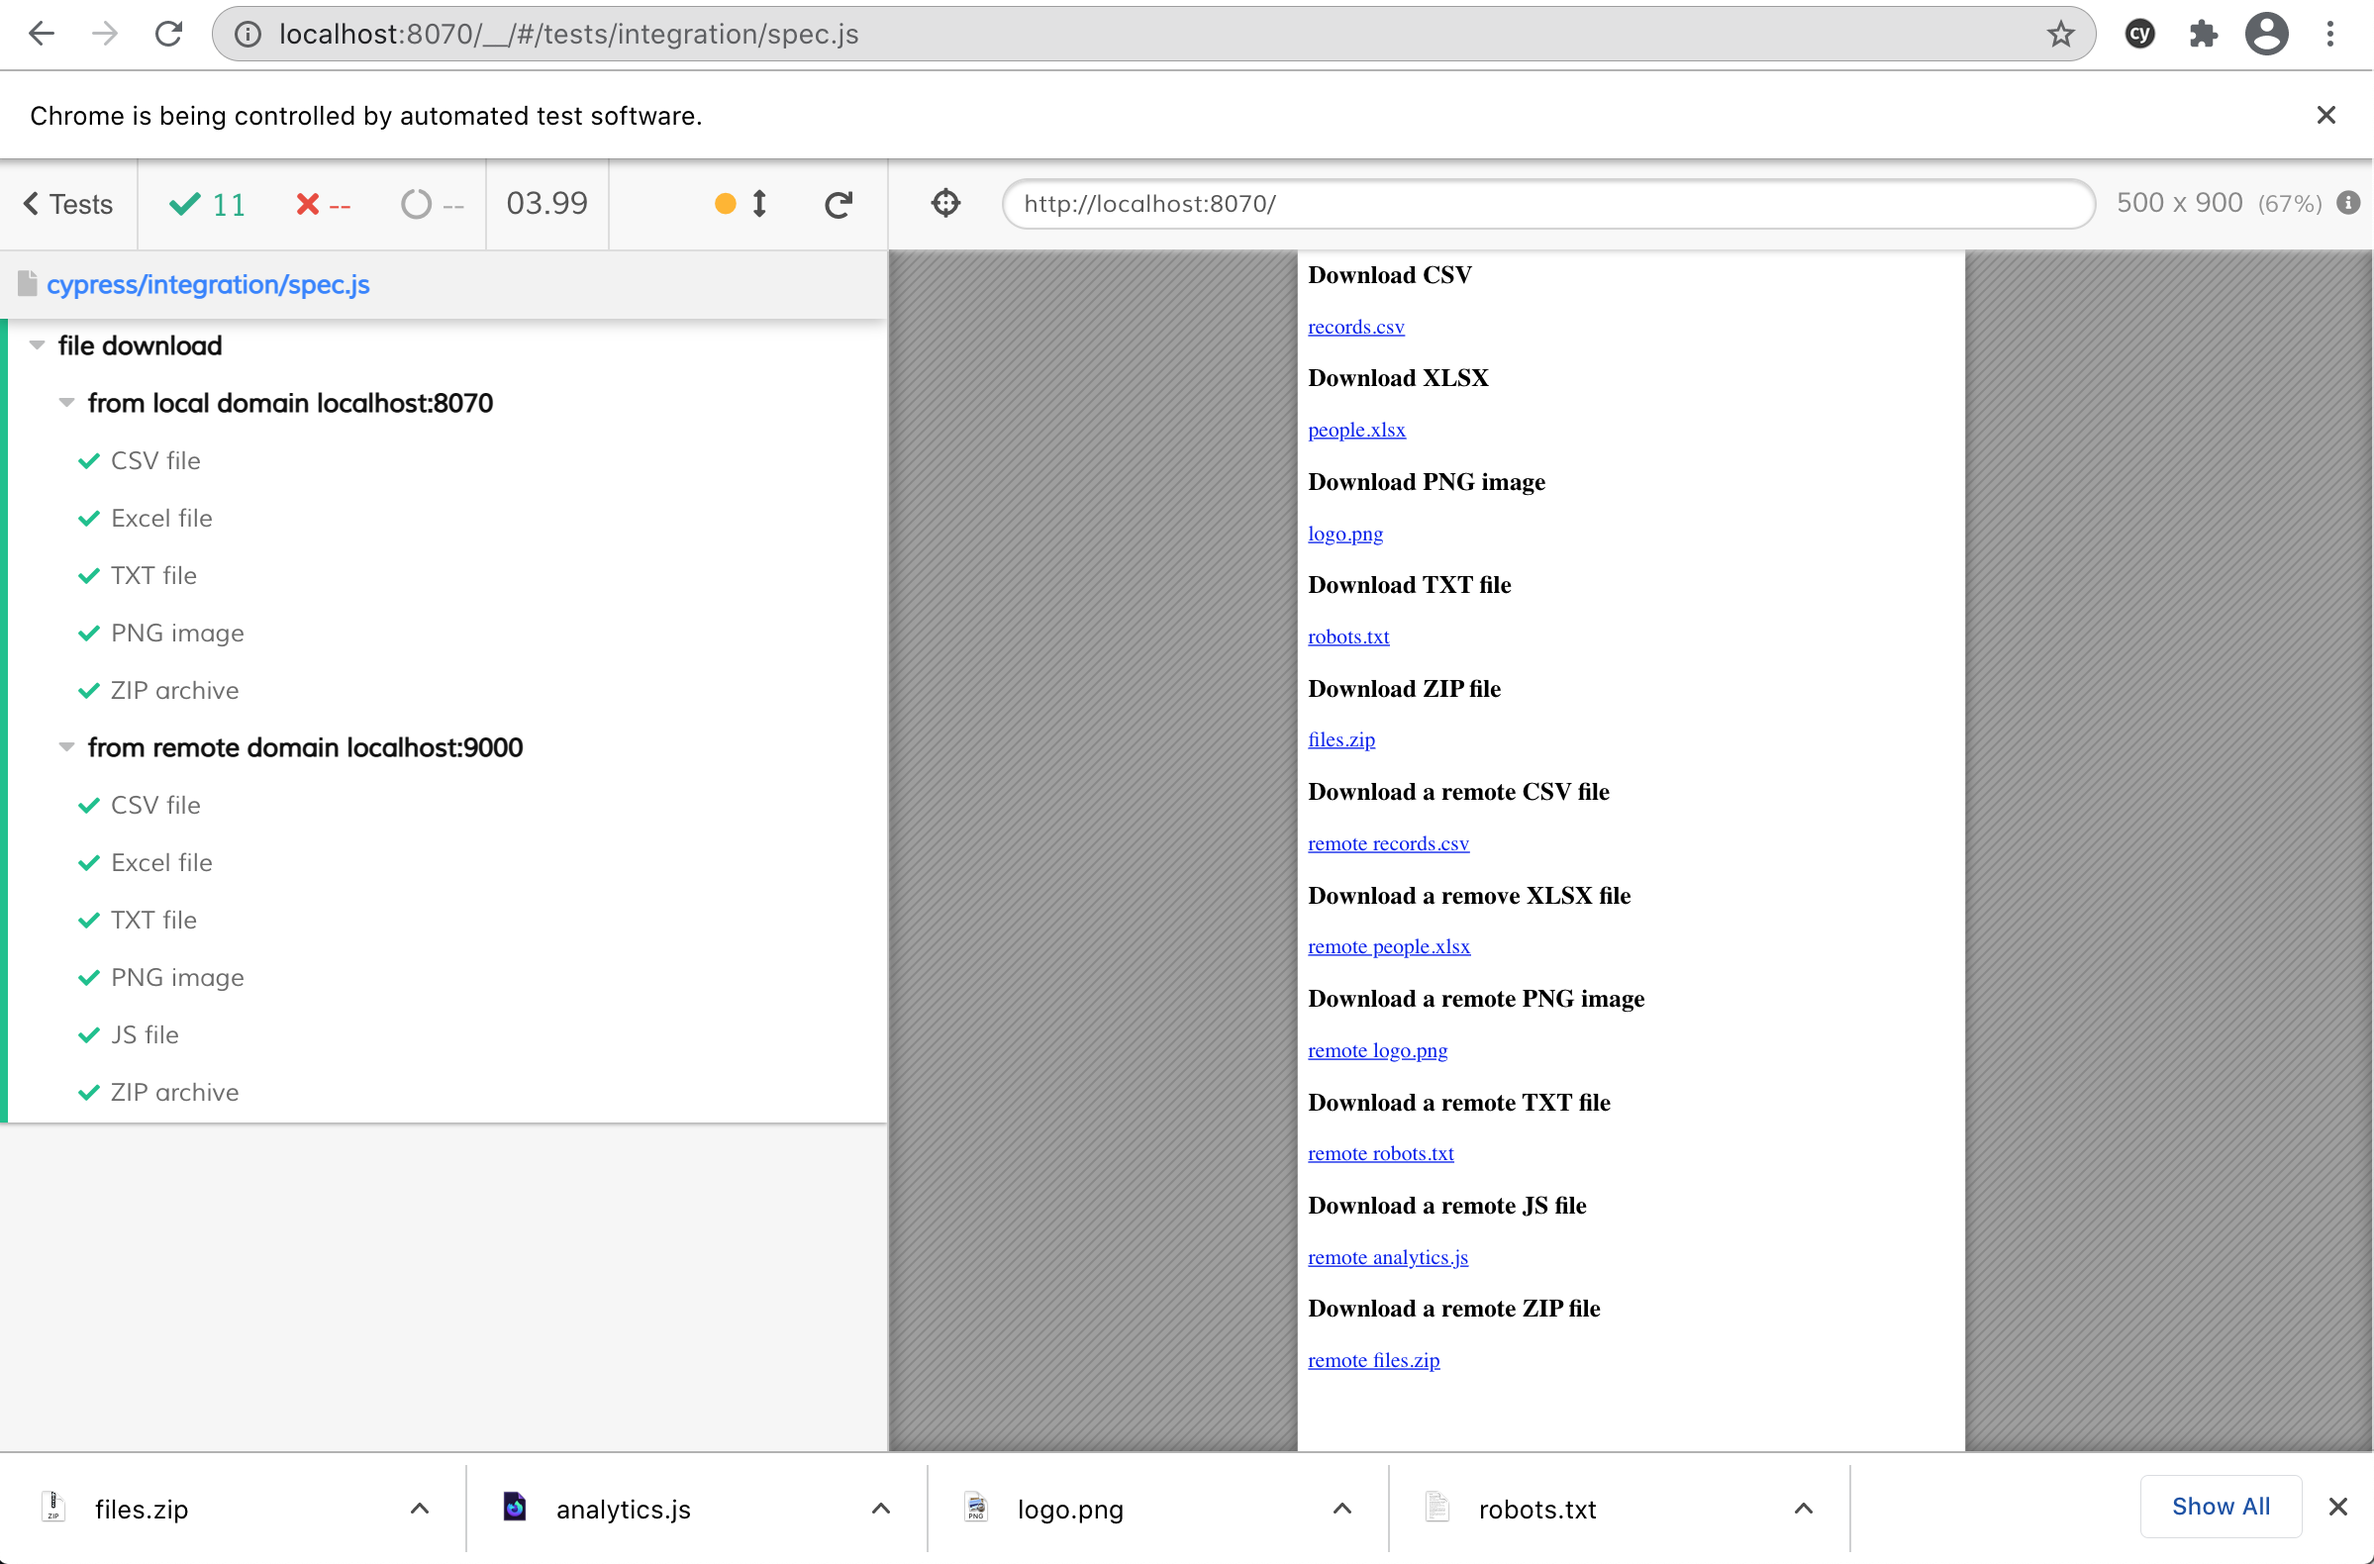
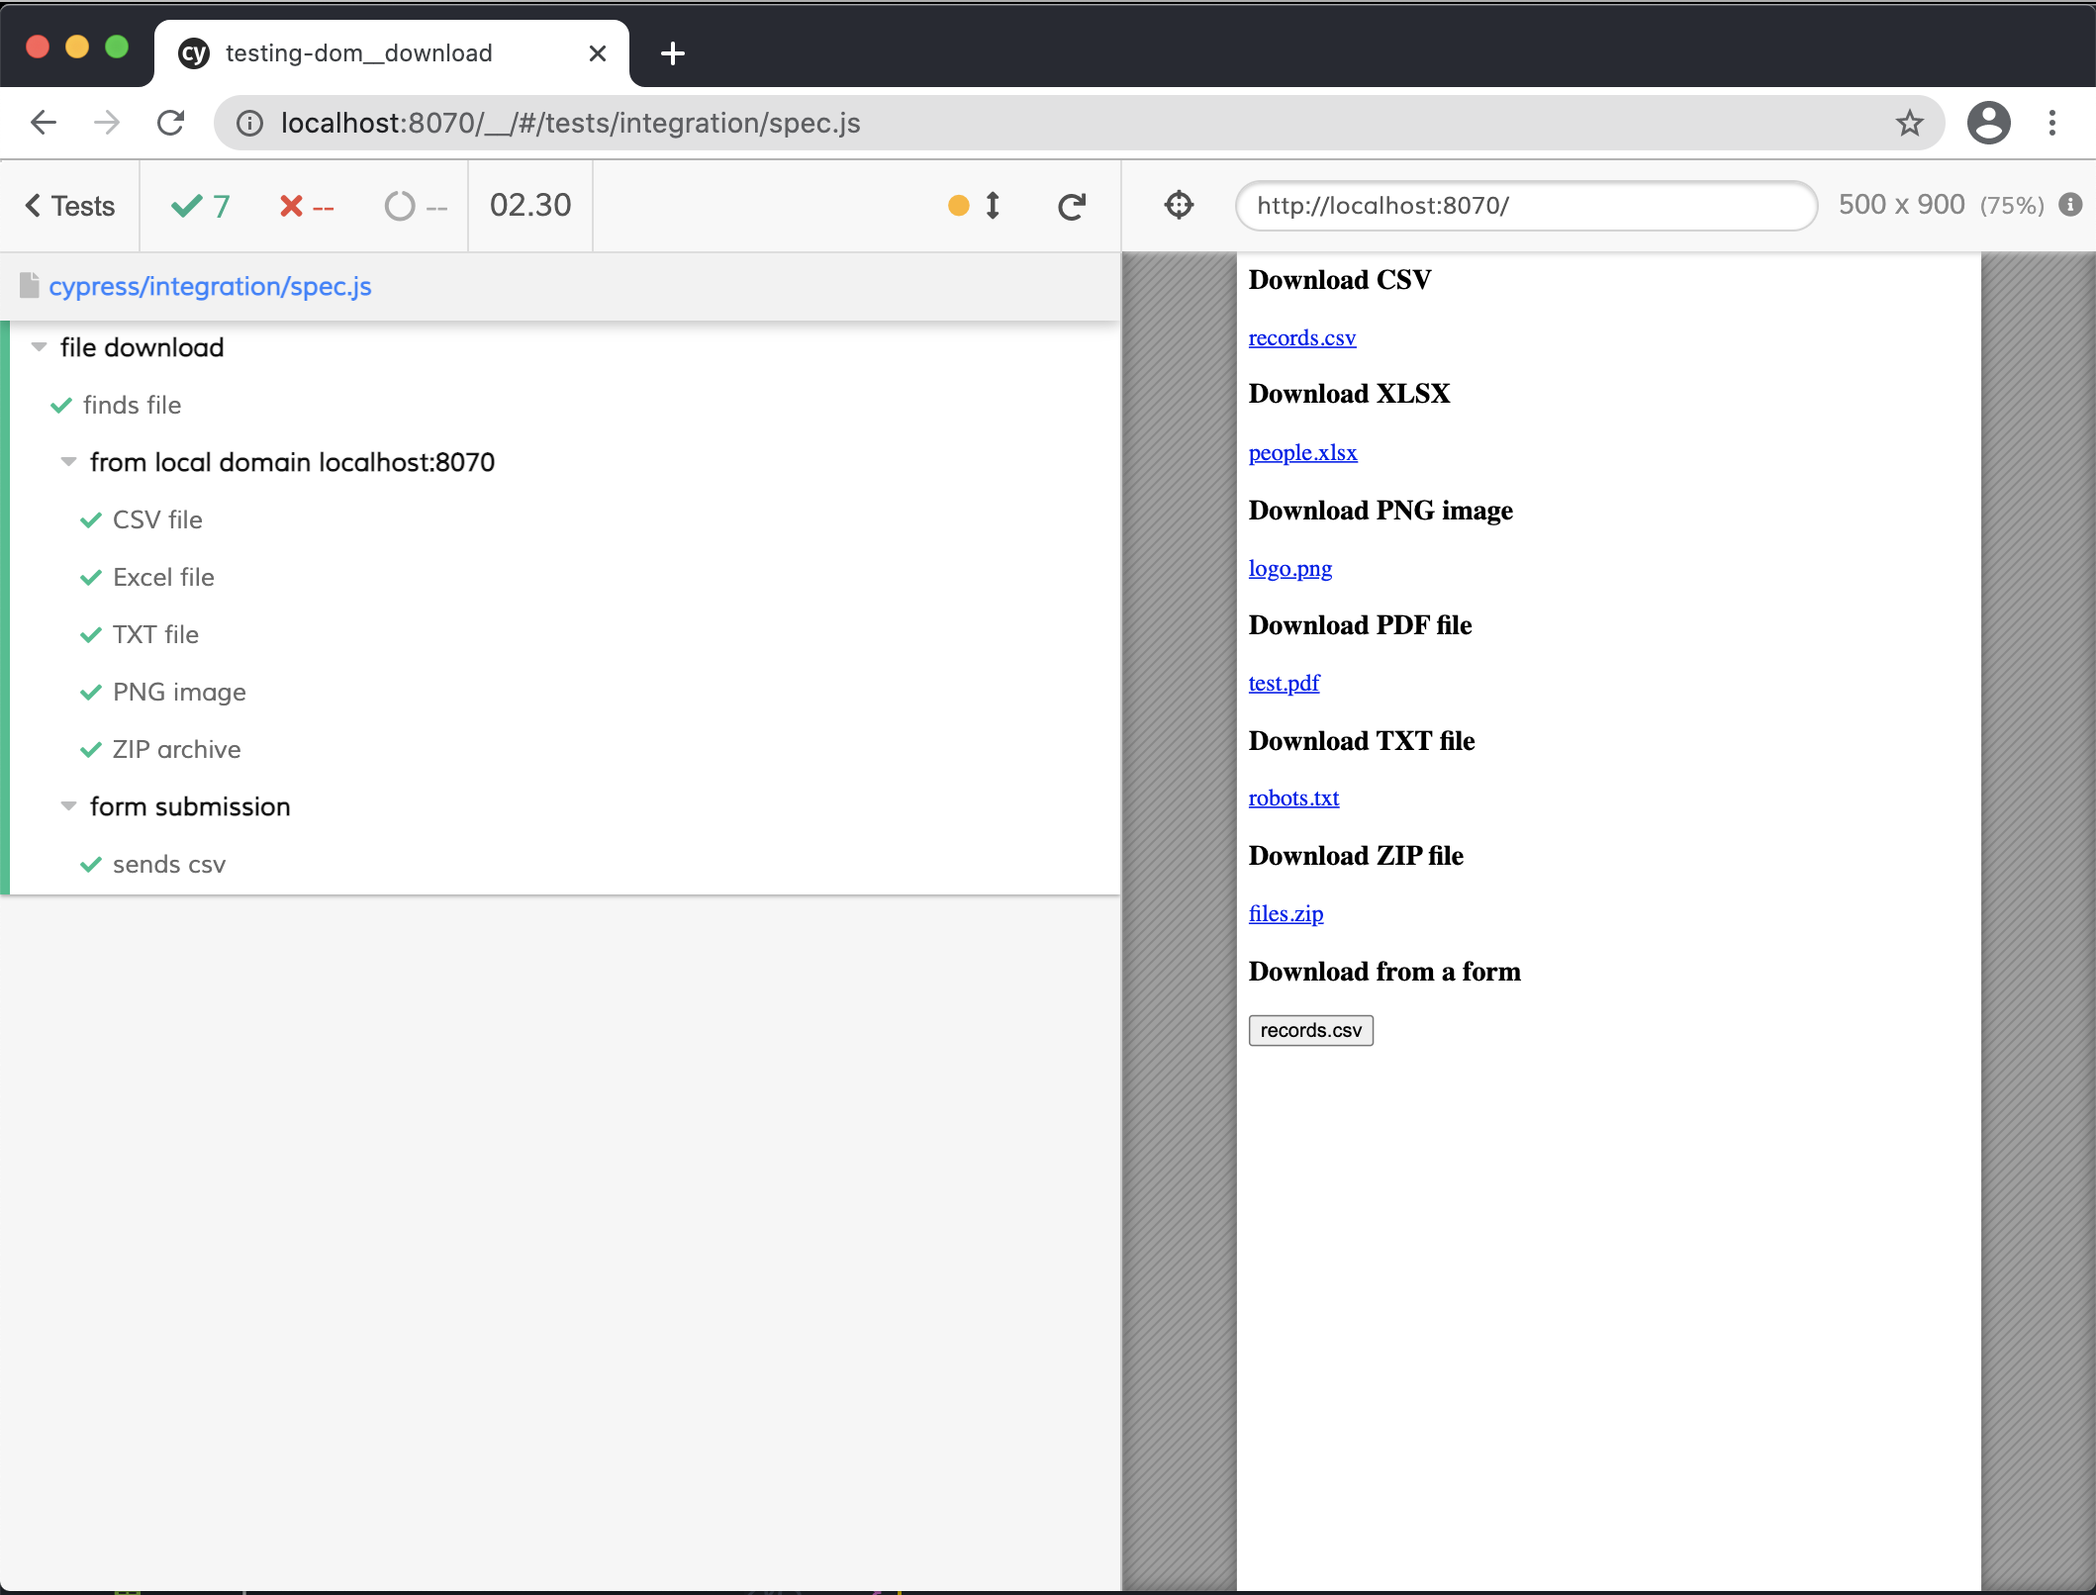
Remove remote downloads, fix falsely passing 'find file' test

diff --git a/examples/testing-dom__download/cypress/integration/spec.js b/examples/testing-dom__download/cypress/integration/spec.js
@@ -154,82 +154,6 @@ describe('file download', () => {
     })
   })
 
-  // The next step tries to download an image file located in
-  // the second domain. It runs in Chromium browsers with
-  // "chromeWebSecurity": false, but we need to skip it in Firefox
-  context('from remote domain localhost:9000', { browser: '!firefox' }, () => {
-    it('CSV file', () => {
-      cy.visit('/')
-      cy.contains('h3', 'Download CSV')
-      cy.get('[data-cy=download-remote-csv]').click()
-
-      cy.log('**read downloaded file**')
-
-      // file path is relative to the working folder
-      const filename = path.join(downloadsFolder, 'records.csv')
-
-      // browser might take a while to download the file,
-      // so use "cy.readFile" to retry until the file exists
-      // and has length - and we assume that it has finished downloading then
-      cy.readFile(filename, { timeout: 15000 })
-      .should('have.length.gt', 50)
-      // parse CSV text into objects
-      .then(neatCSV)
-      .then(validateCsvList)
-    })
-
-    it('Excel file', () => {
-      cy.visit('/')
-      cy.get('[data-cy=download-remote-xlsx]').click()
-
-      cy.log('**confirm downloaded file**')
-
-      validateExcelFile()
-    })
-
-    it('TXT file', () => {
-    // the text file comes from a domain different from the page
-      cy.visit('/')
-      cy.get('[data-cy=download-remote-txt]').click()
-
-      cy.log('**confirm downloaded text file**')
-      validateTextFile()
-    })
-
-    it('PNG image', () => {
-    // image comes from a domain different from the page
-      cy.visit('/')
-      cy.get('[data-cy=download-remote-png]').click()
-
-      cy.log('**confirm downloaded image**')
-      validateImage()
-    })
-
-    it('JS file', () => {
-    // the JavaScript file comes from a domain different from the page
-      cy.visit('/')
-      cy.get('[data-cy=download-remote-js]').click()
-
-      cy.log('**confirm downloaded JavaScript file**')
-      const downloadedFilename = path.join(downloadsFolder, 'analytics.js')
-
-      cy.readFile(downloadedFilename).should((text) => {
-      // validate the downloaded file
-        const lines = text.split('\n')
-
-        expect(lines).to.have.length.gt(20)
-      })
-    })
-
-    it('ZIP archive', () => {
-      cy.visit('/')
-      cy.get('[data-cy=download-remote-zip]').click()
-
-      cy.log('**confirm downloaded ZIP**')
-      validateZip()
-    })
-  })
-
   context('form submission', () => {
     it('sends csv', () => {
       cy.visit('/')
@@ -260,7 +184,7 @@ describe('file download', () => {
     })
   })
 
-  it('finds file', { browser: '!firefox' }, () => {
+  it('finds file', () => {
     // imagine we do not know the exact filename after download
     // so let's call a task to find the file on disk before verifying it
     // image comes from the same domain as the page
@@ -268,7 +192,7 @@ describe('file download', () => {
     cy.get('[data-cy=download-png]').click()
 
     cy.log('**find the image**')
-    const mask = `${downloadsFolder}/*.png`
+    const mask = `${downloadsFolder}/**.png`
 
     cy.task('findFile', mask).then((foundImage) => {
       cy.log(`found image ${foundImage}`)

diff --git a/examples/testing-dom__download/public/index.html b/examples/testing-dom__download/public/index.html
@@ -15,24 +15,6 @@
   <h3>Download ZIP file</h3>
   <a data-cy="download-zip" href="files.zip" download>files.zip</a>
 
-  <h3>Download a remote CSV file</h3>
-  <a data-cy="download-remote-csv" href="http://localhost:9000/records.csv" download>remote records.csv</a>
-
-  <h3>Download a remove XLSX file</h3>
-  <a data-cy="download-remote-xlsx" href="http://localhost:9000/people.xlsx" download>remote people.xlsx</a>
-
-  <h3>Download a remote PNG image</h3>
-  <a data-cy="download-remote-png" href="http://localhost:9000/logo.png" download>remote logo.png</a>
-
-  <h3>Download a remote TXT file</h3>
-  <a data-cy="download-remote-txt" href="http://localhost:9000/robots.txt" download>remote robots.txt</a>
-
-  <h3>Download a remote JS file</h3>
-  <a data-cy="download-remote-js" href="https://www.google-analytics.com/analytics.js" download>remote analytics.js</a>
-
-  <h3>Download a remote ZIP file</h3>
-  <a data-cy="download-remote-zip" href="http://localhost:9000/files.zip" download>remote files.zip</a>
-
   <h3>Download from a form</h3>
   <form method="get" action="records.csv">
     <button data-cy="download-form-csv" type="submit">records.csv</button>
